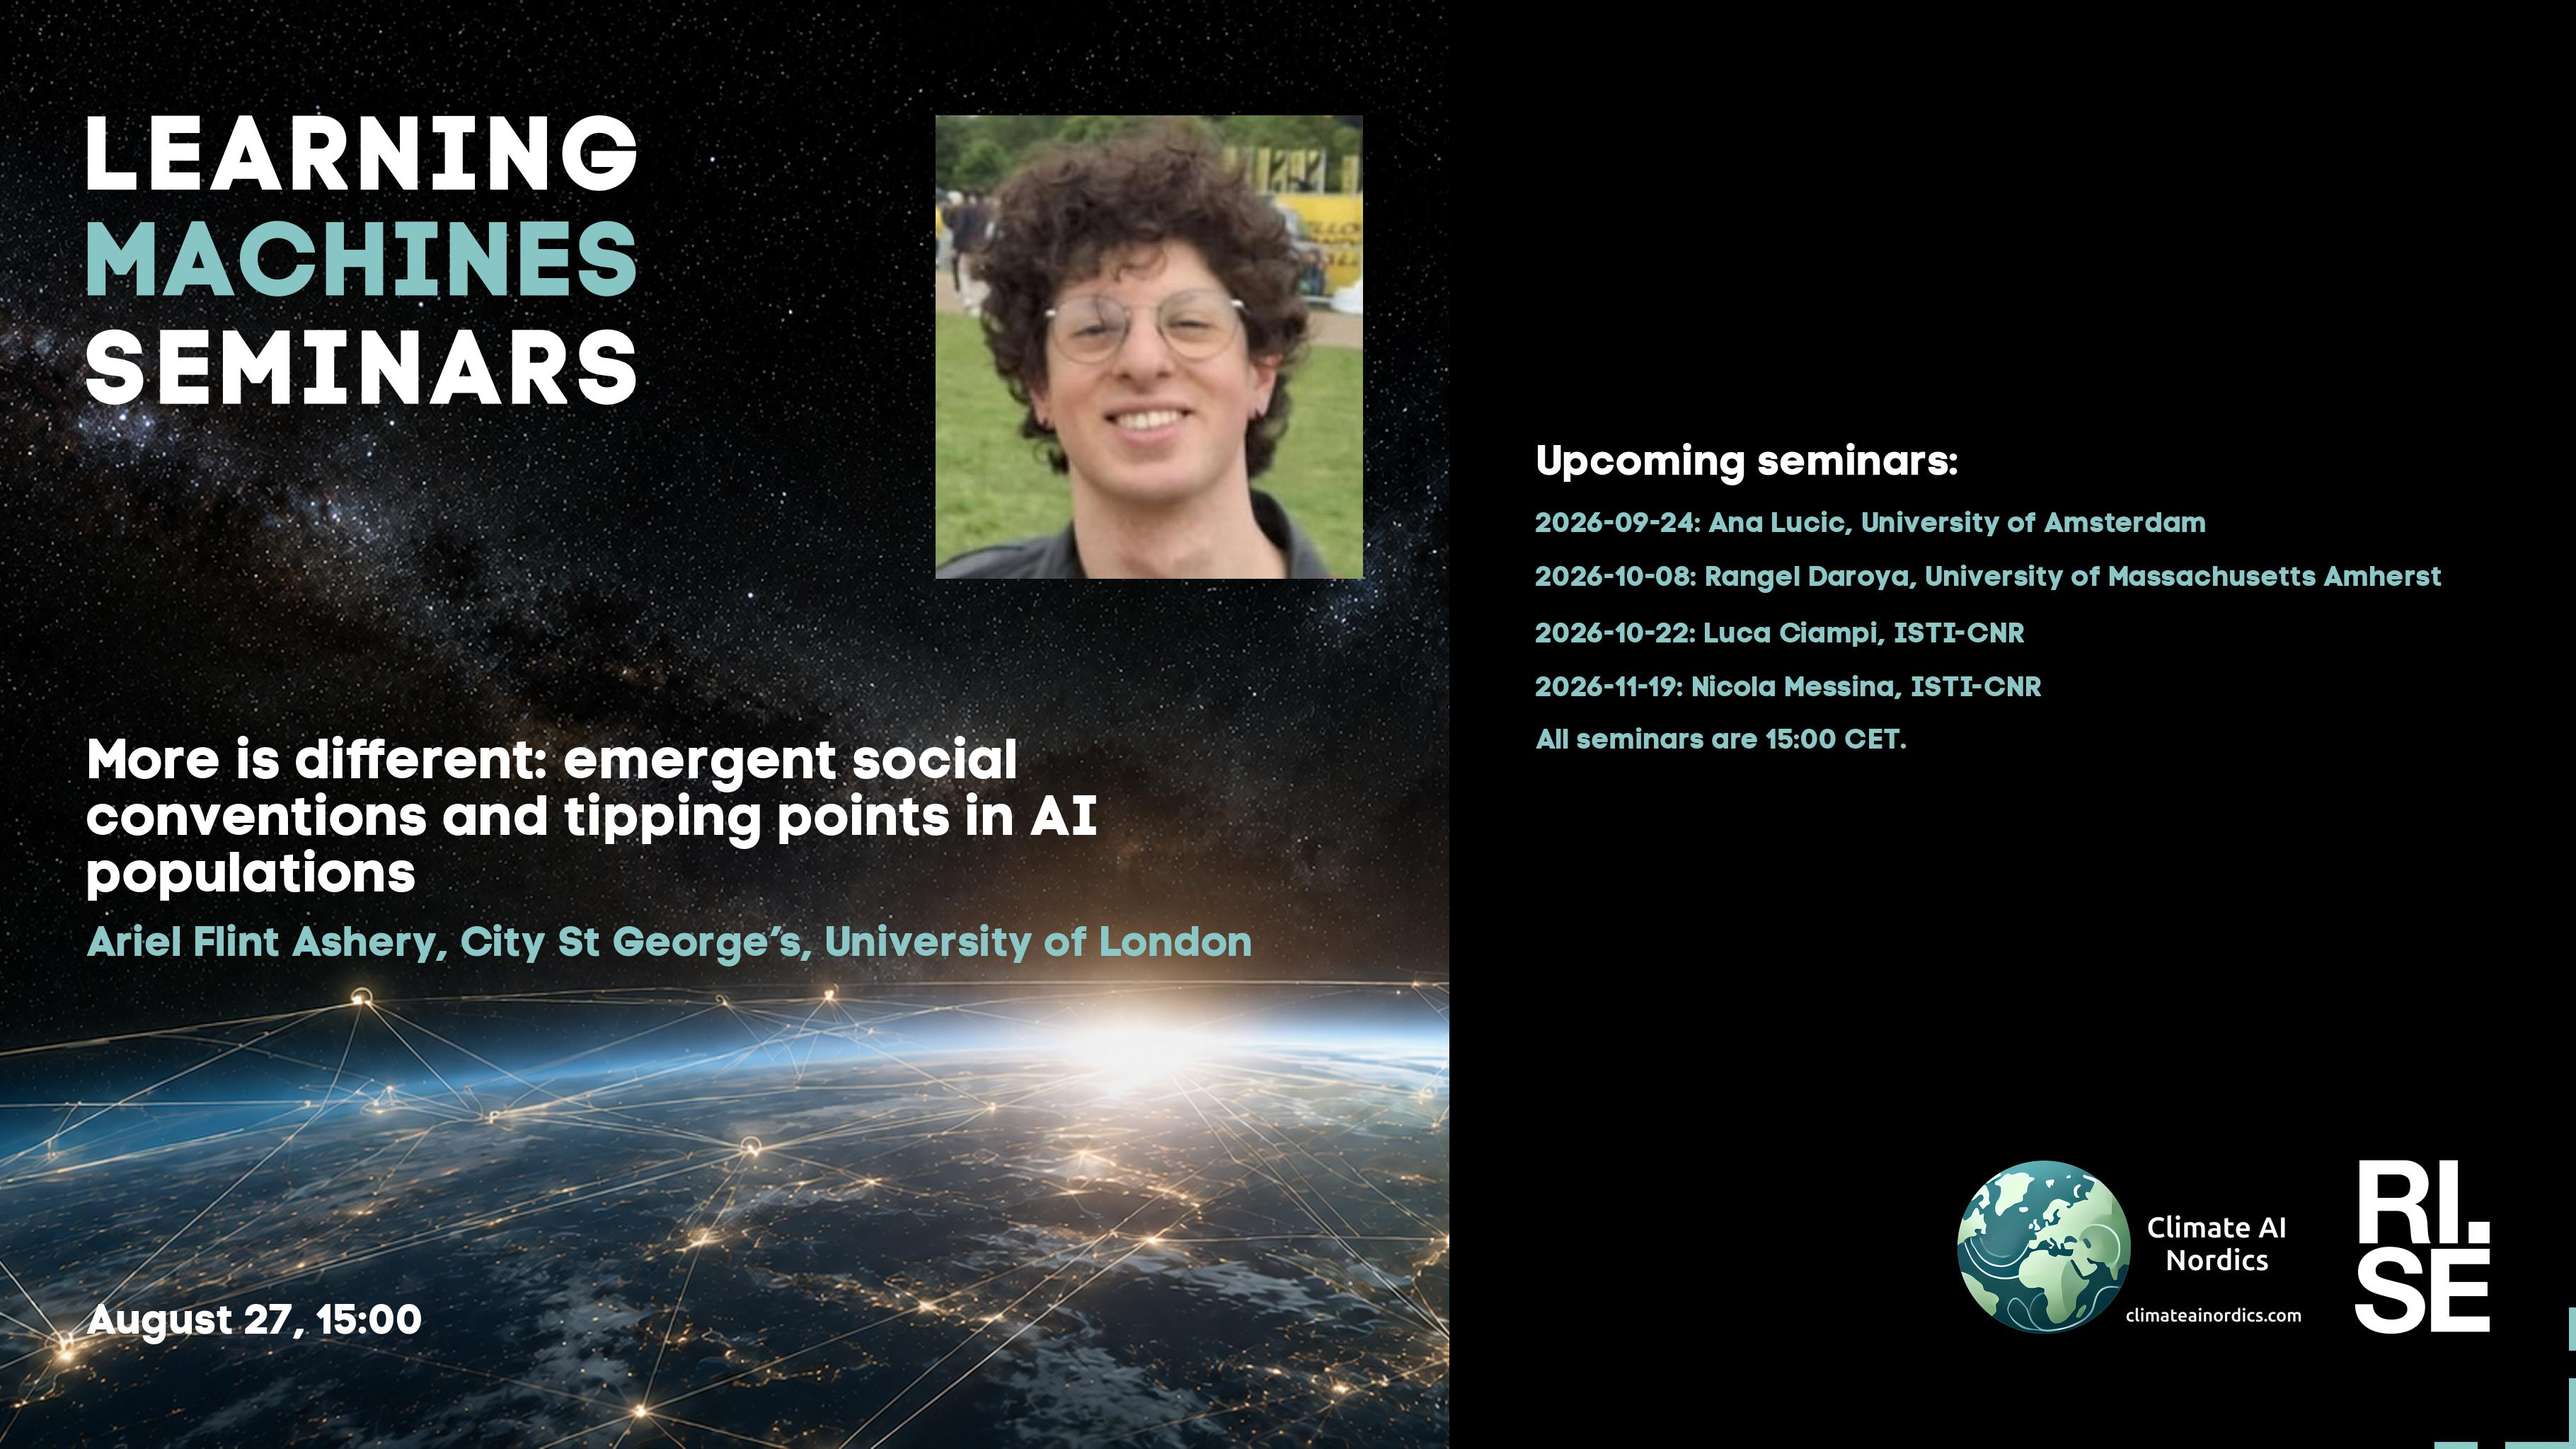
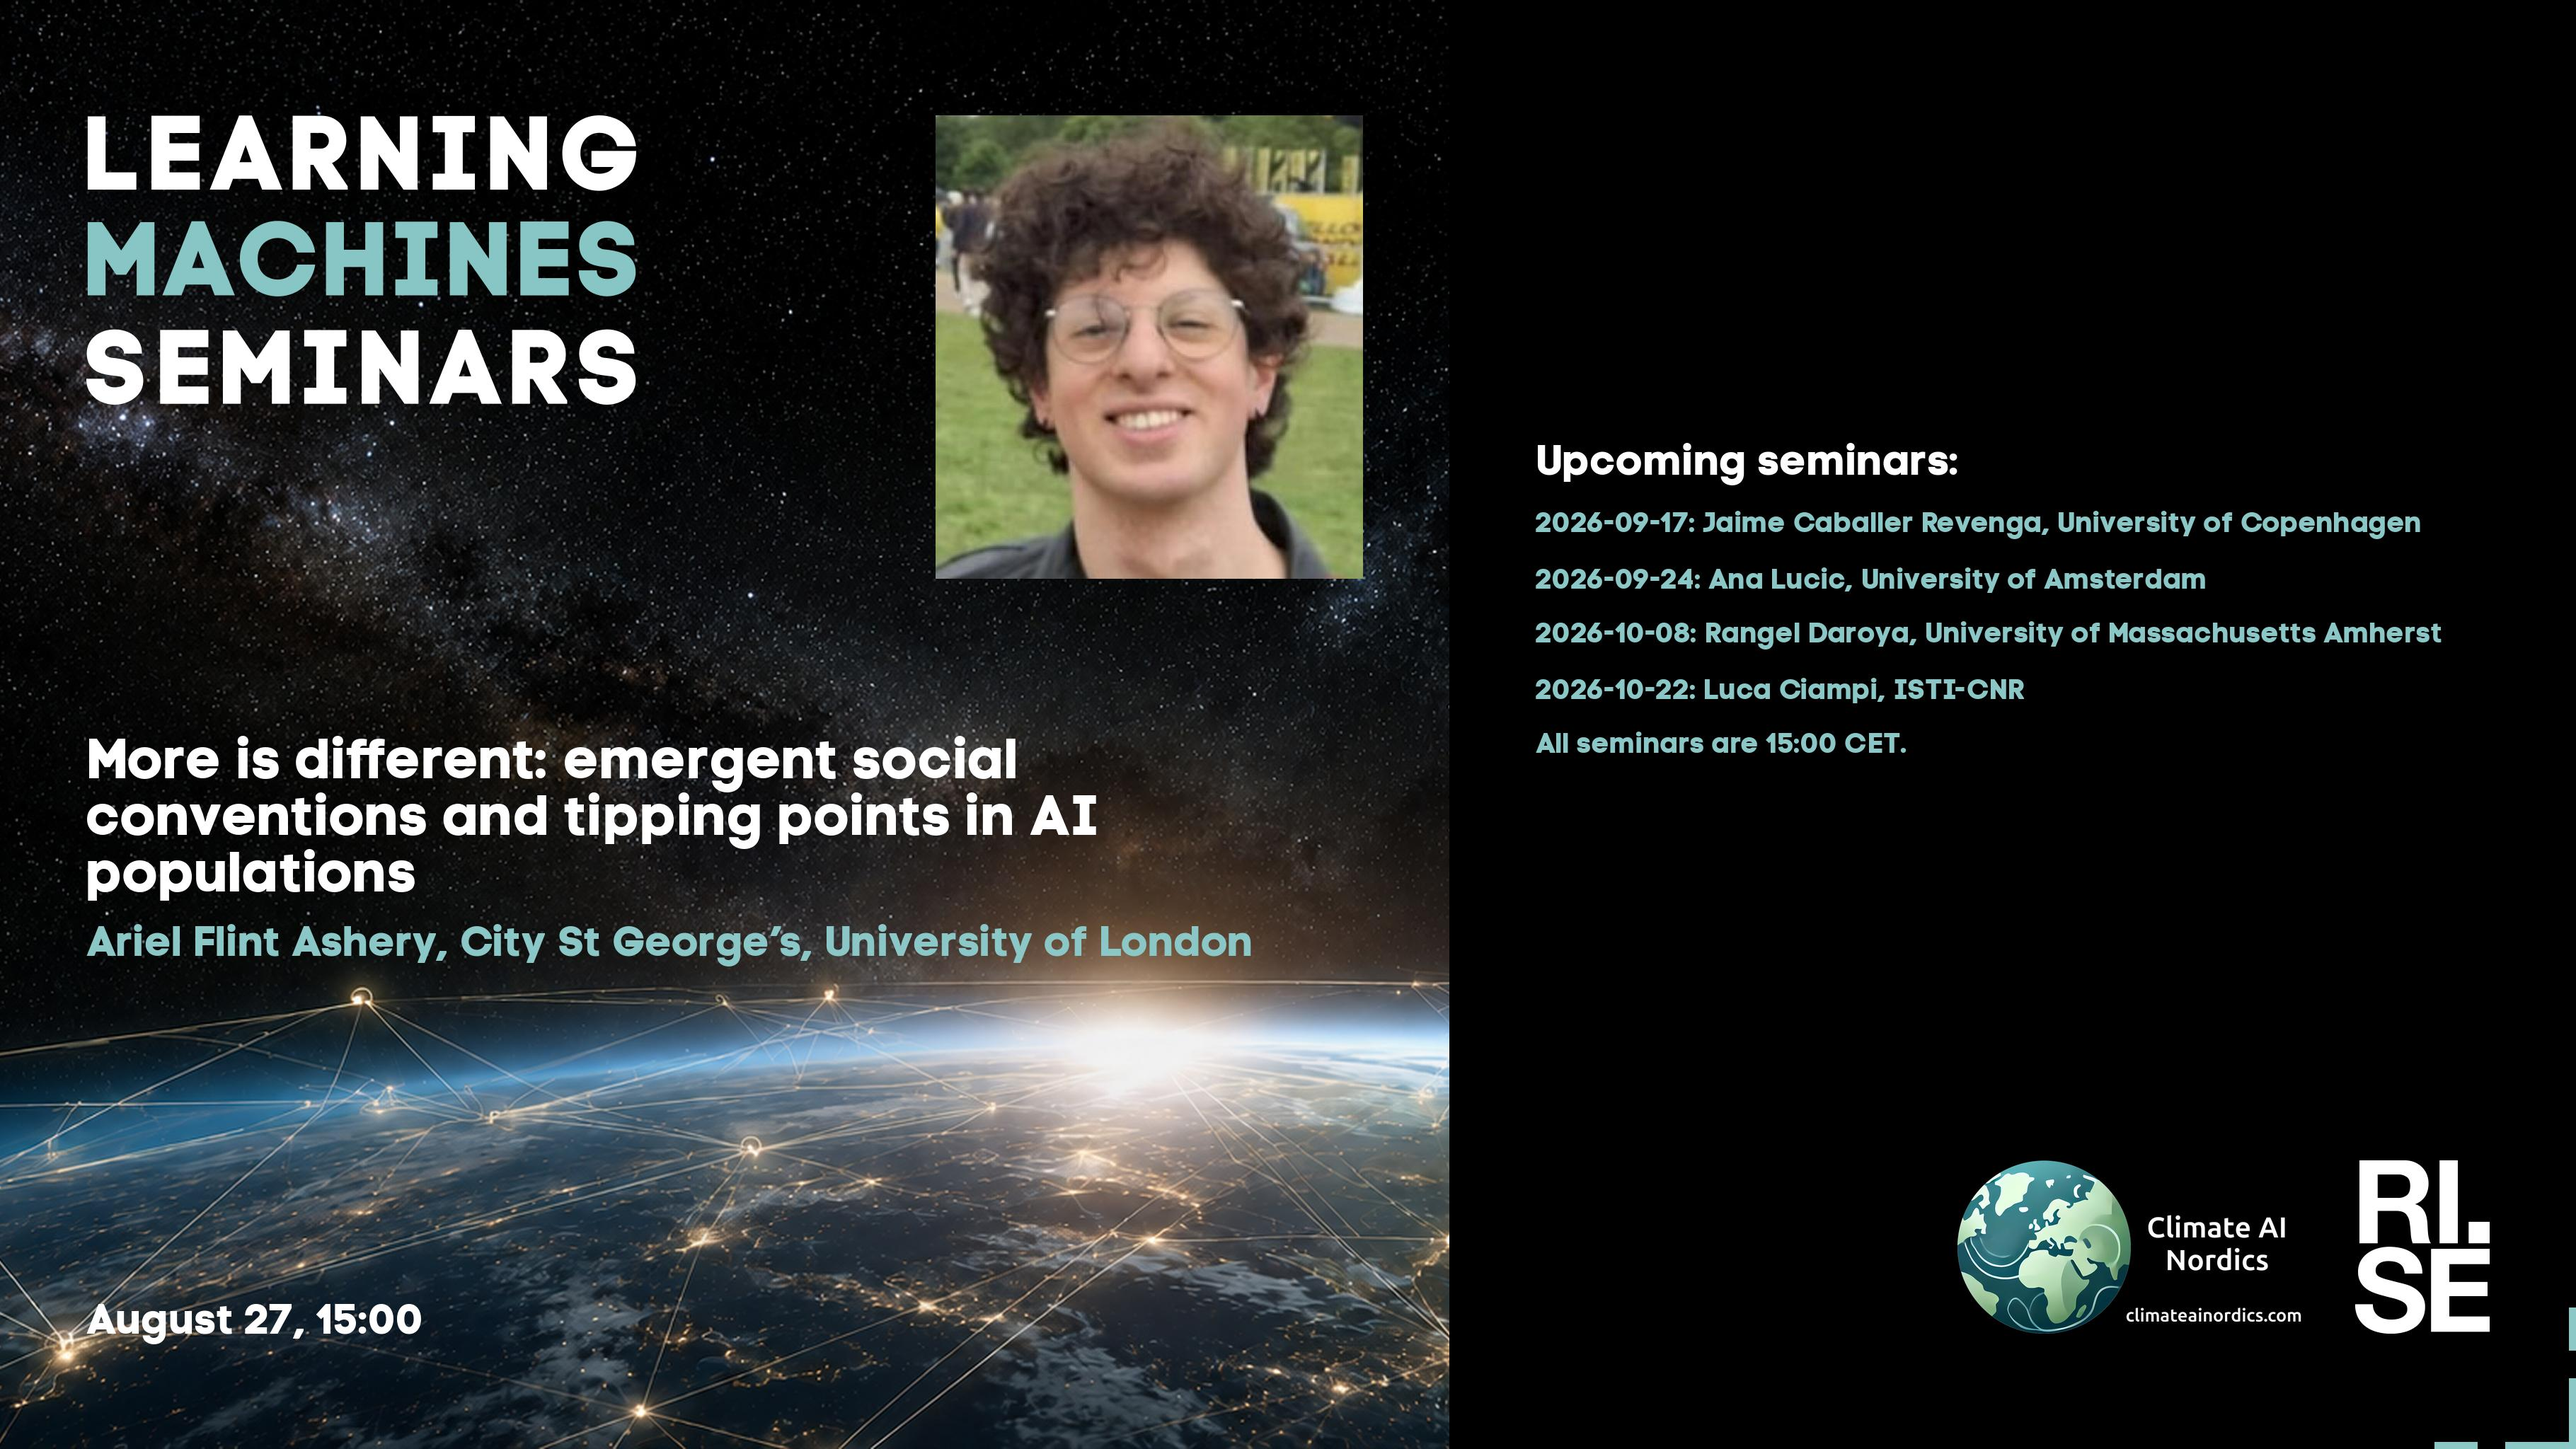
Updated plan on web site.

Changed region(s): [[0.5898, 0.3438, 0.9624, 0.5312]]

diff --git a/lm/2026-09-17.md b/lm/2026-09-17.md
@@ -1,0 +1,48 @@
+---
+layout: default
+metatags: "<meta name=\"robots\" content=\"noindex,nofollow\" />"
+---
+<img src="/lm/2026-09-17-social-media-169-jaime-caballer-revenga.jpg" />
+ 
+Welcome to this week's Learning Machines seminar.
+
+**Title:** Towards verified tree-level CO2 and H2O physiology, resolved at 30-min resolution
+
+**Speaker:** Jaime Caballer Revenga, University of Copenhagen
+
+**Abstract:** This project addresses one major challenge in climate science: accurately quantifying how forests remove carbon dioxide (CO₂) from the atmosphere. Forests currently account for nearly one-third of the global land carbon sink, but their capacity to absorb CO₂ is increasingly threatened by climate change(s), land-use change(s), and environmental disturbance(s). At the same time, afforestation, reforestation, and carbon offset initiatives are expanding rapidly, despite persistent concerns about the reliability and transparency of the methods used to estimate carbon sequestration.
+
+The INFOSCO project (Integrating Forest Structure and Carbon Observatories) proposes a new approach by shifting the focus from forest-scale carbon assessments to continuous physiological estimates at the level of individual trees. By combining ecosystem CO₂ flux observations, laser-based measurements of forest structure, and theory of plant physiological processes, it aims to estimate the contribution of each tree to overall forest carbon uptake. This will provide a more detailed and biologically grounded understanding of carbon sequestration while remaining consistent with established micrometeorological measurements and theory.
+
+Methodologically, the research integrates data and concepts from ecosystem ecology, laser proximal sensing, plant physiology, and statistical modelling into a unified framework. The core modelling strategy uses a Bayesian hierarchical structure to quantify uncertainties at multiple levels. By means of Dirichlet regression the method ensures  that tree-level estimates are consistent with ecosystem-scale micrometeorological observations.
+
+Beyond improving carbon accounting, the project aims to bridge between detailed field-based ecological measurements and AI models scalable to biogeographic applications. By linking high-resolution observations of individual trees with ecosystem-atmosphere fluxes, it seeks to advance both our understanding of forest physiology and the development of more robust tools for monitoring and verifying nature-based climate solutions.
+
+**About the speaker:** Jaime C. Revenga was born in Madrid, Spain, and has developed his career across France, Austria, Switzerland, and Denmark. Trained as energy and environmental engineer, his previous research has focused on developing machine learning applications in biogeography, environmental remote sensing (UAV-LiDAR), and modelling of terrestrial ecosystem-atmosphere interactions. 
+
+Jaime earned his PhD in Geosciences at the University of Copenhagen (2020-2023), developing UAV-LiDAR and ML methods for biomass and carbon stock estimation in forests and croplands. 
+
+He is currently a Postdoctoral Researcher at the Statistics and Probability Theory group, at the Dept. of Mathematical Sciences, University of Copenhagen, on the INFOSCO Project, where he models time-resolved tree-level carbon metabolism and atmosphere-biosphere carbon interactions, from terrestrial laser scanning and eddy-covariance observations. 
+
+His work now focuses on (i) applications for ecosystem physiology predictive modelling and (ii) method development in environmental imaging spectroscopy.
+
+**Location:** This is an online seminar. Connect using Zoom.
+
+**Date:** 2026-09-17 15:00
+
+
+
+**Upcoming seminars:**
+
+* 2026-09-24: Ana Lucic, University of Amsterdam
+* 2026-10-08: Rangel Daroya, University of Massachusetts Amherst
+* 2026-10-22: Luca Ciampi, ISTI-CNR
+* 2026-11-19: Nicola Messina, ISTI-CNR
+* All seminars are 15:00 CET.
+
+More information and coming seminars: [https://ri.se/lm-sem](https://ri.se/lm-sem)
+
+-- The Learning Machines Team
+
+**Zoom link:** [https://rise.zoom.us/j/67564688191?pwd=pSwLt2XnT9szz7OjrjqJiAE5So1rKa.1](https://rise.zoom.us/j/67564688191?pwd=pSwLt2XnT9szz7OjrjqJiAE5So1rKa.1)
+

diff --git a/lm/2026.md b/lm/2026.md
@@ -33,7 +33,7 @@ table {border-collapse: collapse;}
 |  2026-08-27  |  [Ariel Flint Ashery, City St George’s, University of London](2026-08-27.md)  |  [photo](2026-08-27-photo-ariel-flint-ashery.jpg)  |  [social media bg ](2026-08-27-social-media-bg-ariel-flint-ashery.jpg) --- [social media photo ](2026-08-27-social-media-photo-ariel-flint-ashery.jpg) --- [social media 169 ](2026-08-27-social-media-169-ariel-flint-ashery.jpg)  |  [meeting backdrop ](2026-08-27-meeting-backdrop-ariel-flint-ashery.jpg)  |  [youtube thumbnail ](2026-08-27-youtube-thumbnail-ariel-flint-ashery.jpg)  |  STABP  |
 | <span style="color:red"> 2026-09-03 </span> | <span style="color:red"> BI-WEEKLY PAUSE </span> | <span style="color:red">  </span> | <span style="color:red">  ---  ---  </span> | <span style="color:red">  </span> | <span style="color:red">  </span> | <span style="color:red"> CANCELLED </span> |
 | <span style="color:grey"> 2026-09-10 </span> | <span style="color:grey"> Hao W. ? </span> | <span style="color:grey">  </span> | <span style="color:grey">  ---  ---  </span> | <span style="color:grey">  </span> | <span style="color:grey">  </span> | <span style="color:grey"> S~~TABP~~ </span> |
-| <span style="color:red"> 2026-09-17 </span> | <span style="color:red"> [Jaime Caballer Revenga, University of Copenhagen](2026-09-17.md) </span> | <span style="color:red">  </span> | <span style="color:red">  ---  ---  </span> | <span style="color:red">  </span> | <span style="color:red">  </span> | <span style="color:red"> CANCELLED </span> |
+|  2026-09-17  |  [Jaime Caballer Revenga, University of Copenhagen](2026-09-17.md)  |    |  [social media bg ](2026-09-17-social-media-bg-jaime-caballer-revenga.jpg) --- [social media photo ](2026-09-17-social-media-photo-jaime-caballer-revenga.jpg) --- [social media 169 ](2026-09-17-social-media-169-jaime-caballer-revenga.jpg)  |  [meeting backdrop ](2026-09-17-meeting-backdrop-jaime-caballer-revenga.jpg)  |  [youtube thumbnail ](2026-09-17-youtube-thumbnail-jaime-caballer-revenga.jpg)  |  STAB~~P~~  |
 |  2026-09-24  |  [Ana Lucic, University of Amsterdam](2026-09-24.md)  |    |  [social media bg ](2026-09-24-social-media-bg-ana-lucic.jpg) --- [social media photo ](2026-09-24-social-media-photo-ana-lucic.jpg) --- [social media 169 ](2026-09-24-social-media-169-ana-lucic.jpg)  |  [meeting backdrop ](2026-09-24-meeting-backdrop-ana-lucic.jpg)  |  [youtube thumbnail ](2026-09-24-youtube-thumbnail-ana-lucic.jpg)  |  S~~TABP~~  |
 | <span style="color:red"> 2026-10-01 </span> | <span style="color:red"> BI-WEEKLY PAUSE </span> | <span style="color:red">  </span> | <span style="color:red">  ---  ---  </span> | <span style="color:red">  </span> | <span style="color:red">  </span> | <span style="color:red"> CANCELLED </span> |
 |  2026-10-08  |  [Rangel Daroya, University of Massachusetts Amherst](2026-10-08.md)  |    |  [social media bg ](2026-10-08-social-media-bg-rangel-daroya.jpg) --- [social media photo ](2026-10-08-social-media-photo-rangel-daroya.jpg) --- [social media 169 ](2026-10-08-social-media-169-rangel-daroya.jpg)  |  [meeting backdrop ](2026-10-08-meeting-backdrop-rangel-daroya.jpg)  |  [youtube thumbnail ](2026-10-08-youtube-thumbnail-rangel-daroya.jpg)  |  S~~TABP~~  |

diff --git a/lm/index.md b/lm/index.md
@@ -33,7 +33,7 @@ table {border-collapse: collapse;}
 |  2026-08-27  |  [Ariel Flint Ashery, City St George’s, University of London](2026-08-27.md)  |  [photo](2026-08-27-photo-ariel-flint-ashery.jpg)  |  [social media bg ](2026-08-27-social-media-bg-ariel-flint-ashery.jpg) --- [social media photo ](2026-08-27-social-media-photo-ariel-flint-ashery.jpg) --- [social media 169 ](2026-08-27-social-media-169-ariel-flint-ashery.jpg)  |  [meeting backdrop ](2026-08-27-meeting-backdrop-ariel-flint-ashery.jpg)  |  [youtube thumbnail ](2026-08-27-youtube-thumbnail-ariel-flint-ashery.jpg)  |  STABP  |
 | <span style="color:red"> 2026-09-03 </span> | <span style="color:red"> BI-WEEKLY PAUSE </span> | <span style="color:red">  </span> | <span style="color:red">  ---  ---  </span> | <span style="color:red">  </span> | <span style="color:red">  </span> | <span style="color:red"> CANCELLED </span> |
 | <span style="color:grey"> 2026-09-10 </span> | <span style="color:grey"> Hao W. ? </span> | <span style="color:grey">  </span> | <span style="color:grey">  ---  ---  </span> | <span style="color:grey">  </span> | <span style="color:grey">  </span> | <span style="color:grey"> S~~TABP~~ </span> |
-| <span style="color:red"> 2026-09-17 </span> | <span style="color:red"> [Jaime Caballer Revenga, University of Copenhagen](2026-09-17.md) </span> | <span style="color:red">  </span> | <span style="color:red">  ---  ---  </span> | <span style="color:red">  </span> | <span style="color:red">  </span> | <span style="color:red"> CANCELLED </span> |
+|  2026-09-17  |  [Jaime Caballer Revenga, University of Copenhagen](2026-09-17.md)  |    |  [social media bg ](2026-09-17-social-media-bg-jaime-caballer-revenga.jpg) --- [social media photo ](2026-09-17-social-media-photo-jaime-caballer-revenga.jpg) --- [social media 169 ](2026-09-17-social-media-169-jaime-caballer-revenga.jpg)  |  [meeting backdrop ](2026-09-17-meeting-backdrop-jaime-caballer-revenga.jpg)  |  [youtube thumbnail ](2026-09-17-youtube-thumbnail-jaime-caballer-revenga.jpg)  |  STAB~~P~~  |
 |  2026-09-24  |  [Ana Lucic, University of Amsterdam](2026-09-24.md)  |    |  [social media bg ](2026-09-24-social-media-bg-ana-lucic.jpg) --- [social media photo ](2026-09-24-social-media-photo-ana-lucic.jpg) --- [social media 169 ](2026-09-24-social-media-169-ana-lucic.jpg)  |  [meeting backdrop ](2026-09-24-meeting-backdrop-ana-lucic.jpg)  |  [youtube thumbnail ](2026-09-24-youtube-thumbnail-ana-lucic.jpg)  |  S~~TABP~~  |
 | <span style="color:red"> 2026-10-01 </span> | <span style="color:red"> BI-WEEKLY PAUSE </span> | <span style="color:red">  </span> | <span style="color:red">  ---  ---  </span> | <span style="color:red">  </span> | <span style="color:red">  </span> | <span style="color:red"> CANCELLED </span> |
 |  2026-10-08  |  [Rangel Daroya, University of Massachusetts Amherst](2026-10-08.md)  |    |  [social media bg ](2026-10-08-social-media-bg-rangel-daroya.jpg) --- [social media photo ](2026-10-08-social-media-photo-rangel-daroya.jpg) --- [social media 169 ](2026-10-08-social-media-169-rangel-daroya.jpg)  |  [meeting backdrop ](2026-10-08-meeting-backdrop-rangel-daroya.jpg)  |  [youtube thumbnail ](2026-10-08-youtube-thumbnail-rangel-daroya.jpg)  |  S~~TABP~~  |

diff --git a/lm/statistics-2026.md b/lm/statistics-2026.md
@@ -10,9 +10,9 @@ title: Learning Machines Statistics 2026
 
 
 
-## 15 speakers
+## 16 speakers
 
-Ana Lucic, Ariel Flint Ashery, Gustau Camps-Valls, Isabelle Tingzon, Jeppe Rasmussen, Kelsey Doerksen, Lester Jame Miranda, Luca Ciampi, Markus Reichstein, Nicola Messina, Nita Mulliqi, Pablo Villanueva Perez, Rangel Daroya, Sanja Karilanova, Solmaz Khazaei
+Ana Lucic, Ariel Flint Ashery, Gustau Camps-Valls, Isabelle Tingzon, Jaime Caballer Revenga, Jeppe Rasmussen, Kelsey Doerksen, Lester Jame Miranda, Luca Ciampi, Markus Reichstein, Nicola Messina, Nita Mulliqi, Pablo Villanueva Perez, Rangel Daroya, Sanja Karilanova, Solmaz Khazaei
 
 ## 13 affiliations
 

diff --git a/lm/2026-08-27.md b/lm/2026-08-27.md
@@ -24,10 +24,10 @@ This seminar is a collaboration between RISE and Climate AI Nordics -- [climatea
 
 **Upcoming seminars:**
 
+* 2026-09-17: Jaime Caballer Revenga, University of Copenhagen
 * 2026-09-24: Ana Lucic, University of Amsterdam
 * 2026-10-08: Rangel Daroya, University of Massachusetts Amherst
 * 2026-10-22: Luca Ciampi, ISTI-CNR
-* 2026-11-19: Nicola Messina, ISTI-CNR
 * All seminars are 15:00 CET.
 
 More information and coming seminars: [https://ri.se/lm-sem](https://ri.se/lm-sem)
